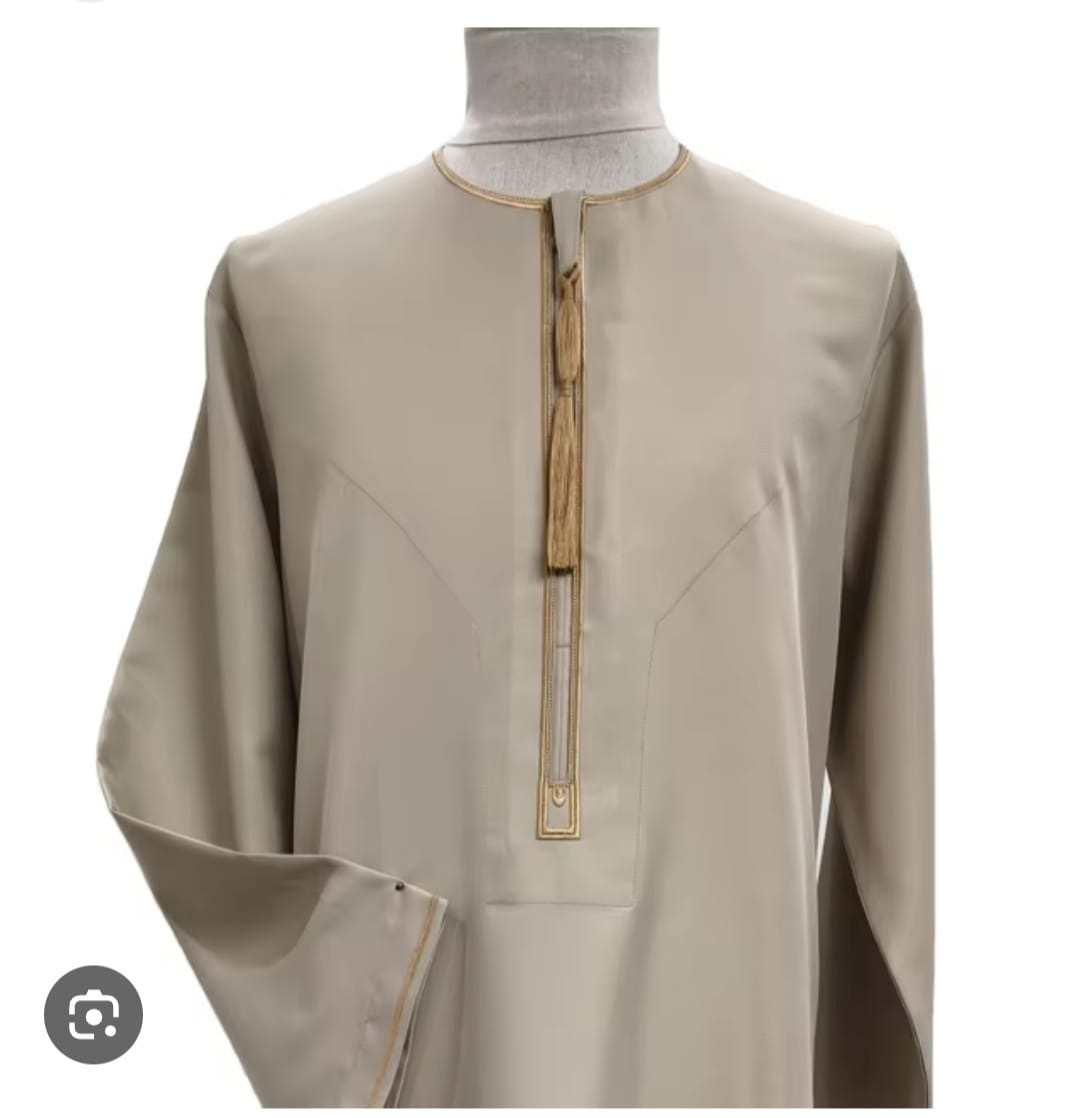
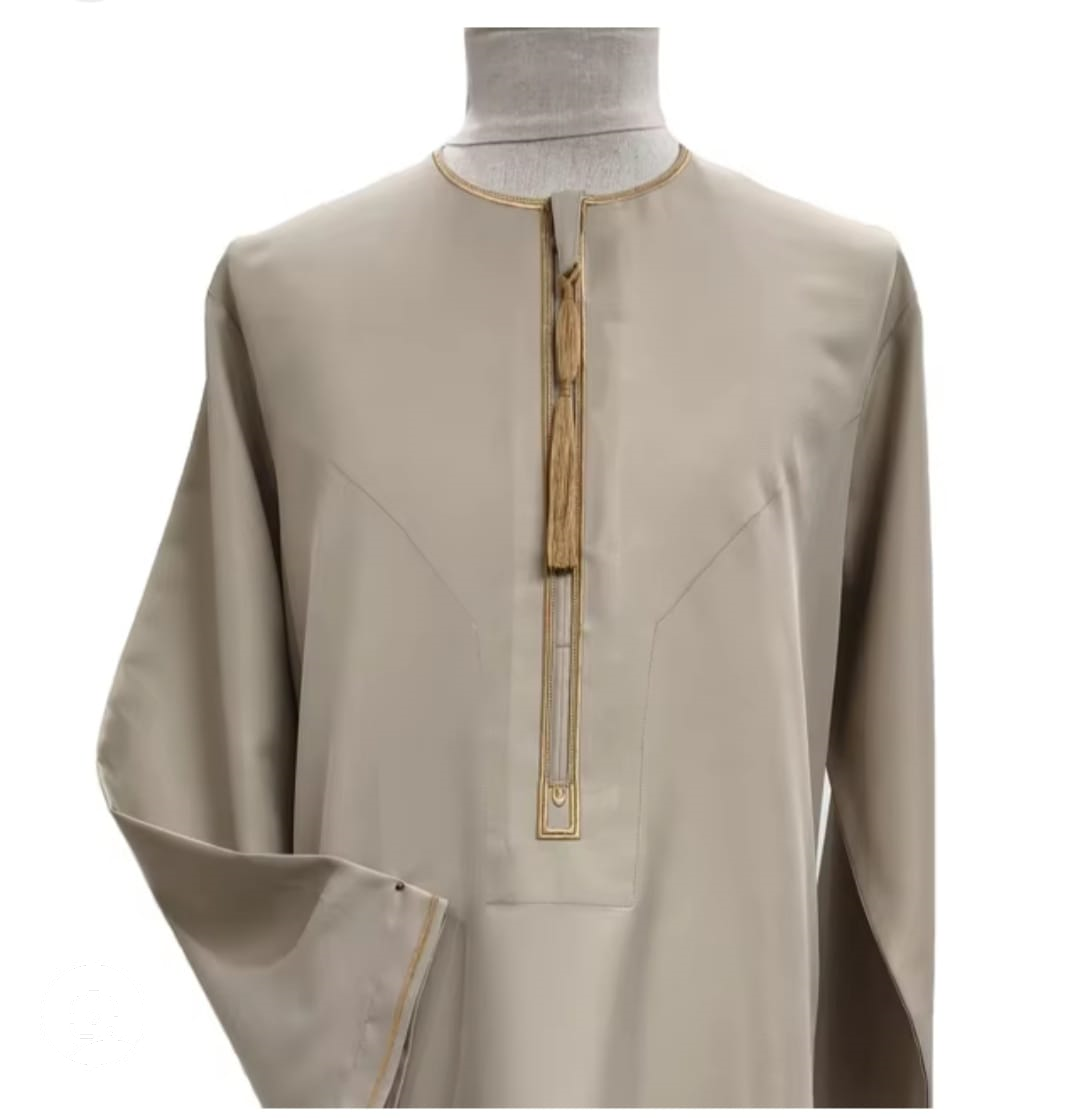
men jubba added to the product page

Changed region(s): [[0.0306, 0.8515, 0.1528, 0.9732]]

diff --git a/app/Products/page.tsx b/app/Products/page.tsx
@@ -65,6 +65,18 @@ const products = [
     // price: 1800,
     image: "/Goodwork9.jpeg",
   },
+  {
+    id: 11,
+    // name: "Bluetooth Speaker",
+    // price: 1800,
+    image: "/menDressEdited3.png",
+  },
+  {
+    id: 12,
+    // name: "Bluetooth Speaker",
+    // price: 1800,
+    image: "/menDressEdited2.jpg",
+  },
 ];
 
 const Page = () => {
@@ -82,7 +94,7 @@ const Page = () => {
             <img
               src={item?.image}
               alt={"Imgae"}
-              className="w-full h-auto object-cover rounded"
+              className="w-full h-[400px] object-cover rounded"
             />
 
             {/* <h2 className="text-xl font-semibold mt-3">{item?.name}</h2> */}
